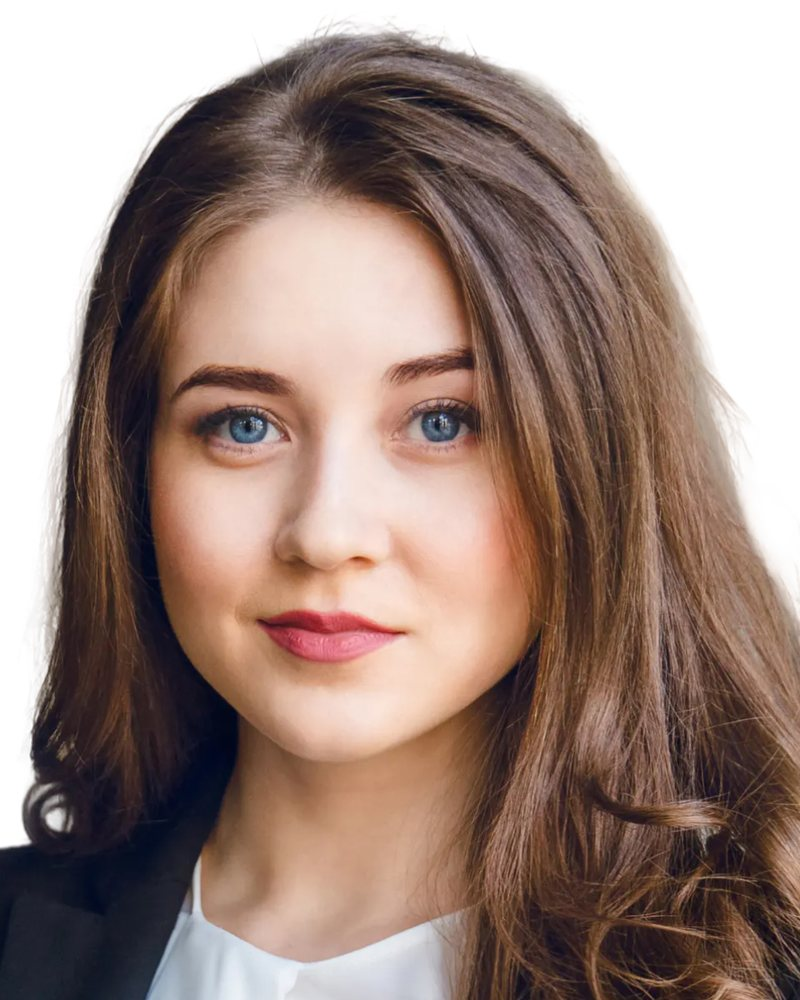
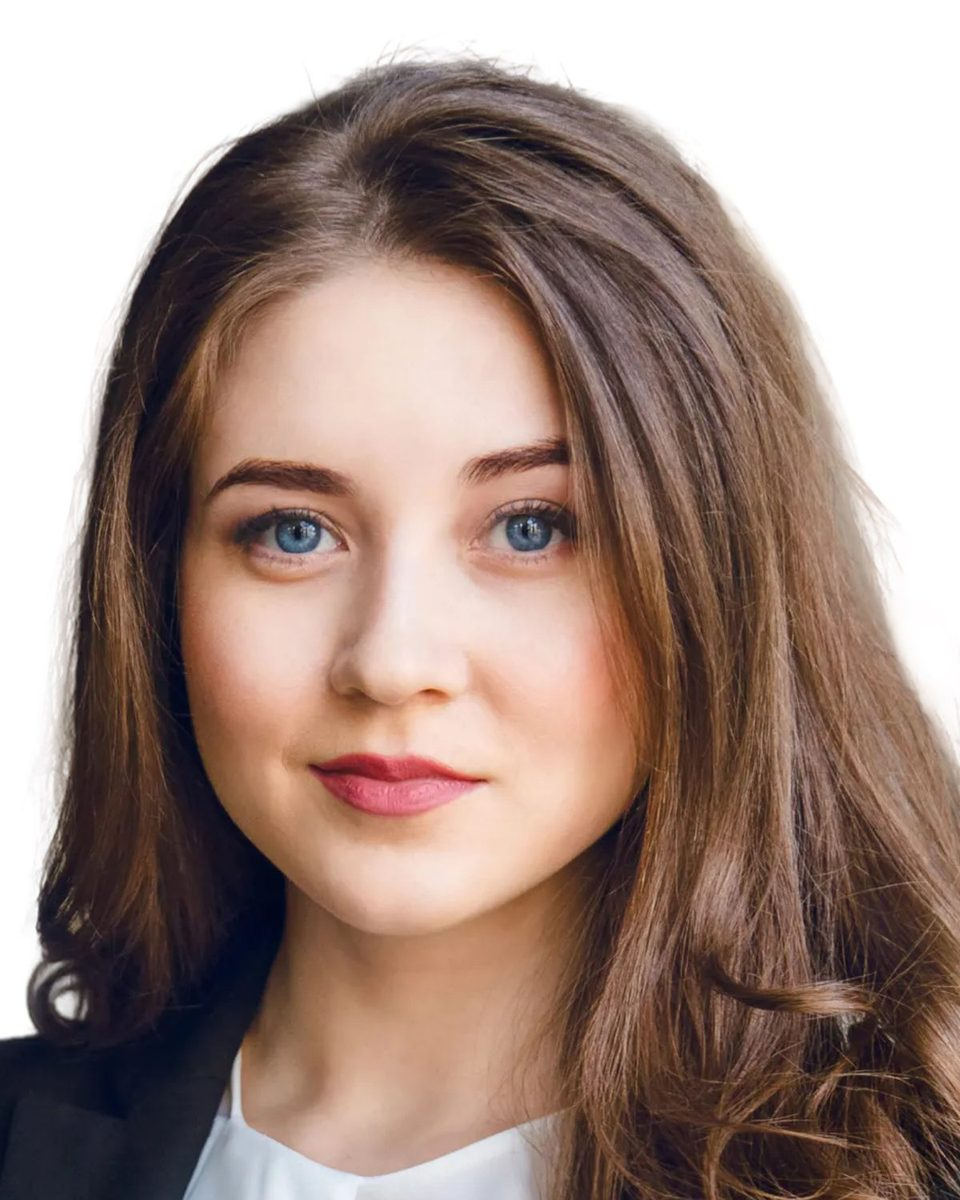
v3.11 — правки 26.11: hero UA как EN, процесс, цены, футер, скрины кейсов, фото команды
Claude-Session: https://claude.ai/code/session_01DrEDLHrs4JieHHSdT3fkNY

diff --git a/index.html b/index.html
@@ -30,7 +30,7 @@
   <div class="mv-wrap mv-hero-in">
     <div class="mv-hero-top">
       <div>
-        <p class="mv-kicker a-blur" style="--d:.45s"><b>Сайти, що приводять клієнтів</b> і працюють замість вас</p>
+        <p class="mv-kicker a-blur" style="--d:.45s">Сайти, що працюють <b>замість вас</b></p>
         <h1 style="margin:0">
           <span class="a-mask"><span class="mv-more"><span class="mv-bars" aria-hidden="true"><i></i><i></i><i></i></span><span class="mv-more-w">НОВІ КЛІЄНТИ</span></span></span>
           <span class="a-mask"><span class="mv-clients" style="--d:.15s">стабільно</span></span>
@@ -87,7 +87,7 @@
   <div class="v-case-row"><span class="v-case-l"><span class="v-num">04</span><h3 class="v-case-name">The Nook</h3></span><span class="v-case-kind">Готель на 12 номерів біля моря</span>
     <button type="button" class="mv-tog" aria-expanded="false" aria-controls="case-4" aria-label="The Nook, кейс"><svg width="18" height="18" viewBox="0 0 18 18" fill="none" stroke="currentColor" stroke-width="1.6" aria-hidden="true"><path d="M9 2v14M2 9h14"/></svg></button></div>
   <div class="mv-acc" id="case-4"><div><div class="v-case-body">
-    <div class="v-case-shot"><img class="" src="assets/img/case-the-nook.jpg" alt="The Nook website" loading="lazy" decoding="async"></div>
+    <div class="v-case-shot"><img class="is-wide" src="assets/img/case-the-nook.jpg" alt="The Nook website" loading="lazy" decoding="async"></div>
     <div class="v-case-txt"><dl><div><dt>Було</dt><dd>Гості бачили ще один пляжний готель, а <b>поза сезоном</b> номери пустували.</dd></div><div><dt>Що зробили</dt><dd>Нове позиціонування для віддаленої роботи: «Працюй біля моря. Відпочивай зі змістом». Тихі робочі місця, відкрито <b>цілий рік</b>, пакети для тривалого проживання.</dd></div><div class="res"><dt>Стало</dt><dd>У міжсезоння з’явилися свої гості: люди на віддаленій роботі, які приїжджають на <b>тижні, а не дні</b>.</dd></div></dl><p class="v-actions v-case-act"><a class="mv-btn mv-btn--amber" href="https://the-nook----premium-coastal-coliving-we.webflow.io/" target="_blank" rel="noopener">Відкрити сайт <span class="ar" aria-hidden="true">→</span></a><span class="v-host">the-nook.webflow.io</span></p></div>
   </div></div></div>
 </article><article class="v-case">
@@ -113,7 +113,7 @@
 </div></section>
 <section id="pricing" class="v-sec v-bg-base" data-reveal=""><div class="v-wrap"><div class="v-head "><p class="v-idx"><span>Ціни</span></p><div><h2 class="v-h2">Ціни без дзвінків і форм</h2><p class="v-lead">Оберіть мету — й одразу побачите суму. Ціну фіксуємо до старту.</p></div></div>
   <div class="v-pay" role="group" aria-label="Одним платежем / Трьома частинами"><button type="button" aria-pressed="true" data-pay="1">Одним платежем</button><button type="button" aria-pressed="false" data-pay="3">Трьома частинами</button></div>
-  <div class="v-3 v-plans"><div class="v-card v-plan" data-spot-card=""><div class="v-plan-top"><span class="v-plan-kind">Лендинг</span></div><h3 class="v-h3">Сайт, який приносить заявки</h3><p>Одна сторінка, що пояснює вашу пропозицію й перетворює відвідувачів на заявки.</p><p class="v-price"><span>від</span><b data-p1="₴16 800 <small>(≈ $400)</small>" data-p3="3 × ₴5 600">₴16 800 <small>(≈ $400)</small></b></p><ul><li>Односторінковий сайт</li><li>Тексти під ваших клієнтів</li><li>Форма зі сповіщеннями</li><li>Місяць підтримки після запуску</li></ul><a class="mv-btn" href="#contact" data-goal="clients">Обговорити проєкт <span class="ar" aria-hidden="true">→</span></a></div><div class="v-card v-plan is-rec" data-spot-card=""><div class="v-plan-top"><span class="v-plan-kind">Лендинг + автоматизація</span><span class="v-badge">Популярний</span></div><h3 class="v-h3">Сайт, який записує клієнтів сам</h3><p>Клієнт сам обирає час, а заявка одразу надходить вашій команді.</p><p class="v-price"><span>від</span><b data-p1="₴29 100 <small>(≈ $700)</small>" data-p3="3 × ₴9 700">₴29 100 <small>(≈ $700)</small></b></p><ul><li>Усе з пакета «Лендинг»</li><li>Онлайн-запис і календар</li><li>Заявки в Telegram або CRM</li><li>Місяць підтримки після запуску</li></ul><a class="mv-btn" href="#contact" data-goal="service">Обговорити проєкт <span class="ar" aria-hidden="true">→</span></a></div><div class="v-card v-plan" data-spot-card=""><div class="v-plan-top"><span class="v-plan-kind">Багатосторінковий сайт</span></div><h3 class="v-h3">Сайт для бізнесу, що росте</h3><p>Окрема сторінка для кожної послуги, а запис і обробка заявок уже всередині.</p><p class="v-price"><span>від</span><b data-p1="₴49 800 <small>(≈ $1 200)</small>" data-p3="3 × ₴16 600">₴49 800 <small>(≈ $1 200)</small></b></p><ul><li>До 5 сторінок</li><li>Запис і обробка заявок</li><li>Аналітика й відстеження заявок</li><li>Місяць пріоритетної підтримки</li></ul><a class="mv-btn" href="#contact" data-goal="redesign">Обговорити проєкт <span class="ar" aria-hidden="true">→</span></a></div></div><p class="v-note">Потрібен Telegram-бот, CRM чи інша функція? Додамо до будь-якого пакета. Ціни в доларах, у гривнях — за курсом НБУ на день оплати.</p>
+  <div class="v-3 v-plans"><div class="v-card v-plan" data-spot-card=""><div class="v-plan-top"><span class="v-plan-kind">Лендинг</span></div><h3 class="v-h3">Сайт, який приносить заявки</h3><p>Одна сторінка, що пояснює вашу пропозицію й перетворює відвідувачів на заявки.</p><p class="v-price"><span>від</span><b data-p1="₴16 800" data-p3="3 × ₴5 600">₴16 800</b><span class="v-price-sub" data-p1="≈ $400" data-p3="≈ $133 за платіж">≈ $400</span></p><ul><li>Односторінковий сайт</li><li>Тексти під ваших клієнтів</li><li>Форма зі сповіщеннями</li><li>Місяць підтримки після запуску</li></ul><a class="mv-btn" href="#contact" data-goal="clients">Обговорити проєкт <span class="ar" aria-hidden="true">→</span></a></div><div class="v-card v-plan is-rec" data-spot-card=""><div class="v-plan-top"><span class="v-plan-kind">Лендинг + автоматизація</span><span class="v-badge">Популярний</span></div><h3 class="v-h3">Сайт, який записує клієнтів сам</h3><p>Клієнт сам обирає час, а заявка одразу надходить вашій команді.</p><p class="v-price"><span>від</span><b data-p1="₴29 100" data-p3="3 × ₴9 700">₴29 100</b><span class="v-price-sub" data-p1="≈ $700" data-p3="≈ $233 за платіж">≈ $700</span></p><ul><li>Усе з пакета «Лендинг»</li><li>Онлайн-запис і календар</li><li>Заявки в Telegram або CRM</li><li>Місяць підтримки після запуску</li></ul><a class="mv-btn" href="#contact" data-goal="service">Обговорити проєкт <span class="ar" aria-hidden="true">→</span></a></div><div class="v-card v-plan" data-spot-card=""><div class="v-plan-top"><span class="v-plan-kind">Багатосторінковий сайт</span></div><h3 class="v-h3">Сайт для бізнесу, що росте</h3><p>Окрема сторінка для кожної послуги, а запис і обробка заявок уже всередині.</p><p class="v-price"><span>від</span><b data-p1="₴49 800" data-p3="3 × ₴16 600">₴49 800</b><span class="v-price-sub" data-p1="≈ $1 200" data-p3="≈ $400 за платіж">≈ $1 200</span></p><ul><li>До 5 сторінок</li><li>Запис і обробка заявок</li><li>Аналітика й відстеження заявок</li><li>Місяць пріоритетної підтримки</li></ul><a class="mv-btn" href="#contact" data-goal="redesign">Обговорити проєкт <span class="ar" aria-hidden="true">→</span></a></div></div><p class="v-note">Потрібен Telegram-бот, CRM чи інша функція? Додамо до будь-якого пакета. Ціни в доларах, у гривнях — за курсом НБУ на день оплати.</p>
 </div></section>
 <section id="contact" class="v-sec v-bg-warm" data-reveal=""><div class="v-wrap"><div class="v-head "><p class="v-idx"><span>Контакти</span></p><div><h2 class="v-h2">Безкоштовний <br>15‑хвилинний розбір</h2><p class="v-lead">Разом подивимося на ваш сайт або ідею й підкажемо, що приведе більше заявок. Це ні до чого не зобов’язує.</p></div></div>
   <div class="v-contact v-contact--2">
@@ -124,7 +124,7 @@
       <div class="v-fields">
         <label class="v-field"><span>Ім’я</span><input class="v-in" name="name" placeholder="Як до вас звертатися?" autocomplete="name" required="required"></label>
         <label class="v-field"><span>Email</span><input class="v-in" type="email" name="email" placeholder="you@company.com" autocomplete="email" required="required"></label>
-        <label class="v-field v-field--full"><span>Телефон</span><input class="v-in" type="tel" name="phone" placeholder="+380 __ ___ __ __" autocomplete="tel" required="required"></label>
+        <label class="v-field v-field--full"><span>Телефон</span><input class="v-in" type="tel" name="phone" placeholder="" autocomplete="tel" required="required"></label>
       </div>
       <p class="mv-err" data-form-error="" hidden="hidden" role="alert"></p>
       <div class="v-submit"><button class="mv-btn" type="submit">Записатися на розбір <span class="ar" aria-hidden="true">→</span></button><span class="v-host">Відповімо протягом доби · без спаму</span></div>
@@ -139,7 +139,7 @@
     <div><p class="v-foot-h">Контакти</p><a class="v-foot-ic" href="mailto:mavpy.studio@gmail.com"><svg class="ico" aria-hidden="true" stroke-width="3.75" stroke-linecap="round" stroke-linejoin="round" viewBox="0 0 60 60" fill="none"><path d="M7.5 13.125H52.5V45C52.5 45.4973 52.3025 45.9742 51.9508 46.3258C51.5992 46.6775 51.1223 46.875 50.625 46.875H9.375C8.87772 46.875 8.40081 46.6775 8.04918 46.3258C7.69754 45.9742 7.5 45.4973 7.5 45V13.125Z" stroke="currentColor"/><path d="M52.5 13.125L30 33.75L7.5 13.125" stroke="currentColor"/></svg><span>mavpy.studio@gmail.com</span></a><a class="v-foot-ic" href="tel:+380992208343"><svg class="ico" aria-hidden="true" stroke-width="3.75" stroke-linecap="round" stroke-linejoin="round" viewBox="0 0 60 60" fill="none"><path d="M38.5289 34.0641C38.7886 33.8913 39.0872 33.786 39.3979 33.7578C39.7085 33.7295 40.0212 33.7792 40.3078 33.9023L51.3609 38.8547C51.7334 39.0139 52.0444 39.2895 52.2472 39.6401C52.45 39.9908 52.5337 40.3977 52.4859 40.8C52.1218 43.5212 50.7818 46.0176 48.715 47.8248C46.6482 49.632 43.9955 50.6271 41.25 50.625C32.7962 50.625 24.6887 47.2668 18.711 41.289C12.7333 35.3113 9.375 27.2038 9.375 18.75C9.3729 16.0045 10.368 13.3518 12.1752 11.285C13.9825 9.21825 16.4788 7.8782 19.2 7.51407C19.6023 7.46628 20.0092 7.55006 20.3599 7.75286C20.7105 7.95566 20.9861 8.26658 21.1453 8.63907L26.0977 19.7016C26.2193 19.9857 26.2689 20.2955 26.2419 20.6034C26.2149 20.9113 26.1122 21.2078 25.943 21.4664L20.9344 27.4219C20.7567 27.69 20.6517 27.9996 20.6295 28.3204C20.6073 28.6413 20.6687 28.9624 20.8078 29.2524C22.7461 33.2203 26.8477 37.2727 30.8273 39.1922C31.1189 39.3307 31.4414 39.3907 31.7633 39.3665C32.0851 39.3422 32.395 39.2345 32.6625 39.0539L38.5289 34.0641Z" stroke="currentColor"/></svg><span>+380 99 220 83 43</span></a><a class="v-foot-ic" href="https://instagram.com/mavpy_agency" target="_blank" rel="noopener"><svg class="ico" aria-hidden="true" stroke-width="3.75" stroke-linecap="round" stroke-linejoin="round" viewBox="0 0 60 60" fill="none"><path d="M39.375 30C39.375 35.1777 35.1777 39.375 30 39.375C24.8223 39.375 20.625 35.1777 20.625 30C20.625 24.8223 24.8223 20.625 30 20.625C35.1777 20.625 39.375 24.8223 39.375 30Z" stroke="currentColor"/><path d="M18.75 7.5H41.25C47.4632 7.5 52.5 12.5368 52.5 18.75V41.25C52.5 47.4632 47.4632 52.5 41.25 52.5H18.75C12.5368 52.5 7.5 47.4632 7.5 41.25V18.75C7.5 12.5368 12.5368 7.5 18.75 7.5Z" stroke="currentColor"/><path d="M42.1875 20.625C43.7408 20.625 45 19.3658 45 17.8125C45 16.2592 43.7408 15 42.1875 15C40.6342 15 39.375 16.2592 39.375 17.8125C39.375 19.3658 40.6342 20.625 42.1875 20.625Z" fill="currentColor"/></svg><span>@mavpy_agency</span></a><a class="v-foot-ic" href="https://t.me/mavpy_agency" target="_blank" rel="noopener"><svg class="ico" aria-hidden="true" stroke-width="3.75" stroke-linecap="round" stroke-linejoin="round" viewBox="0 0 60 60" fill="none"><path d="M18.7501 31.6103L39.9048 50.1564C40.1485 50.3714 40.4439 50.5194 40.762 50.5858C41.0801 50.6522 41.41 50.6349 41.7193 50.5354C42.0287 50.4359 42.3069 50.2577 42.5266 50.0183C42.7464 49.7789 42.9001 49.4864 42.9728 49.1697L52.5001 7.78612C52.5094 7.74462 52.5072 7.70137 52.4938 7.66101C52.4805 7.62066 52.4563 7.5847 52.4241 7.55701C52.3918 7.52931 52.3526 7.51092 52.3107 7.5038C52.2687 7.49668 52.2257 7.5011 52.1861 7.51659L4.68762 26.1049C4.39275 26.2184 4.14265 26.4244 3.97486 26.6921C3.80708 26.9599 3.73065 27.2748 3.75707 27.5896C3.78348 27.9045 3.9113 28.2023 4.12135 28.4383C4.3314 28.6743 4.61234 28.8358 4.92199 28.8986L18.7501 31.6103Z" stroke="currentColor"/><path d="M18.7495 31.6101L52.3612 7.521" stroke="currentColor"/><path d="M29.1487 40.7299L21.9745 48.1736C21.7153 48.4426 21.3816 48.628 21.0163 48.706C20.651 48.7841 20.2707 48.7513 19.9242 48.6118C19.5777 48.4722 19.2808 48.2324 19.0715 47.923C18.8622 47.6136 18.7501 47.2487 18.7495 46.8752V31.6104" stroke="currentColor"/></svg><span>@mavpy_agency</span></a></div>
     <div><p class="v-foot-h">Студія</p><span>Дизайн і розробка</span><span>З 2022 року</span><span>UA / EN</span></div></div>
   <div class="v-ticks v-ticks--line" aria-hidden="true"></div>
-  <p class="v-foot-word v-foot-word--img"><img src="assets/img/footer-wordmark.png" alt="MAVPY" width="1271" height="212" loading="lazy"></p>
+  <p class="v-foot-word v-foot-word--txt" data-fit=""><span>MAVPY</span></p>
   <div class="v-foot-bot"><span>© 2022–2026 MAVPY Design & Dev</span><a href="#top">Нагору ↑</a></div>
 </div></footer>
 </div>

diff --git a/en/index.html b/en/index.html
@@ -87,7 +87,7 @@
   <div class="v-case-row"><span class="v-case-l"><span class="v-num">04</span><h3 class="v-case-name">The Nook</h3></span><span class="v-case-kind">12-room hotel by the sea</span>
     <button type="button" class="mv-tog" aria-expanded="false" aria-controls="case-4" aria-label="The Nook, case"><svg width="18" height="18" viewBox="0 0 18 18" fill="none" stroke="currentColor" stroke-width="1.6" aria-hidden="true"><path d="M9 2v14M2 9h14"/></svg></button></div>
   <div class="mv-acc" id="case-4"><div><div class="v-case-body">
-    <div class="v-case-shot"><img class="" src="../assets/img/case-the-nook.jpg" alt="The Nook website" loading="lazy" decoding="async"></div>
+    <div class="v-case-shot"><img class="is-wide" src="../assets/img/case-the-nook.jpg" alt="The Nook website" loading="lazy" decoding="async"></div>
     <div class="v-case-txt"><dl><div><dt>Before</dt><dd>Guests saw just another beach hotel, and rooms stood empty <b>off-season</b>.</dd></div><div><dt>What we did</dt><dd>New positioning for remote workers: “Work by the sea. Rest with purpose.” Quiet workspace, open <b>all year</b>, long-stay packages.</dd></div><div class="res"><dt>After</dt><dd>The off-season has its own guests: remote workers who stay for <b>weeks, not days</b>.</dd></div></dl><p class="v-actions v-case-act"><a class="mv-btn mv-btn--amber" href="https://the-nook----premium-coastal-coliving-we.webflow.io/" target="_blank" rel="noopener">Open live site <span class="ar" aria-hidden="true">→</span></a><span class="v-host">the-nook.webflow.io</span></p></div>
   </div></div></div>
 </article><article class="v-case">
@@ -124,7 +124,7 @@
       <div class="v-fields">
         <label class="v-field"><span>Name</span><input class="v-in" name="name" placeholder="How should we address you?" autocomplete="name" required="required"></label>
         <label class="v-field"><span>Email</span><input class="v-in" type="email" name="email" placeholder="you@company.com" autocomplete="email" required="required"></label>
-        <label class="v-field v-field--full"><span>Phone</span><input class="v-in" type="tel" name="phone" placeholder="+1 555 000 0000" autocomplete="tel" required="required"></label>
+        <label class="v-field v-field--full"><span>Phone</span><input class="v-in" type="tel" name="phone" placeholder="" autocomplete="tel" required="required"></label>
       </div>
       <p class="mv-err" data-form-error="" hidden="hidden" role="alert"></p>
       <div class="v-submit"><button class="mv-btn" type="submit">Book a free review <span class="ar" aria-hidden="true">→</span></button><span class="v-host">We reply within 24 hours · no spam</span></div>
@@ -139,7 +139,7 @@
     <div><p class="v-foot-h">Contact</p><a class="v-foot-ic" href="mailto:mavpy.studio@gmail.com"><svg class="ico" aria-hidden="true" stroke-width="3.75" stroke-linecap="round" stroke-linejoin="round" viewBox="0 0 60 60" fill="none"><path d="M7.5 13.125H52.5V45C52.5 45.4973 52.3025 45.9742 51.9508 46.3258C51.5992 46.6775 51.1223 46.875 50.625 46.875H9.375C8.87772 46.875 8.40081 46.6775 8.04918 46.3258C7.69754 45.9742 7.5 45.4973 7.5 45V13.125Z" stroke="currentColor"/><path d="M52.5 13.125L30 33.75L7.5 13.125" stroke="currentColor"/></svg><span>mavpy.studio@gmail.com</span></a><a class="v-foot-ic" href="tel:+380992208343"><svg class="ico" aria-hidden="true" stroke-width="3.75" stroke-linecap="round" stroke-linejoin="round" viewBox="0 0 60 60" fill="none"><path d="M38.5289 34.0641C38.7886 33.8913 39.0872 33.786 39.3979 33.7578C39.7085 33.7295 40.0212 33.7792 40.3078 33.9023L51.3609 38.8547C51.7334 39.0139 52.0444 39.2895 52.2472 39.6401C52.45 39.9908 52.5337 40.3977 52.4859 40.8C52.1218 43.5212 50.7818 46.0176 48.715 47.8248C46.6482 49.632 43.9955 50.6271 41.25 50.625C32.7962 50.625 24.6887 47.2668 18.711 41.289C12.7333 35.3113 9.375 27.2038 9.375 18.75C9.3729 16.0045 10.368 13.3518 12.1752 11.285C13.9825 9.21825 16.4788 7.8782 19.2 7.51407C19.6023 7.46628 20.0092 7.55006 20.3599 7.75286C20.7105 7.95566 20.9861 8.26658 21.1453 8.63907L26.0977 19.7016C26.2193 19.9857 26.2689 20.2955 26.2419 20.6034C26.2149 20.9113 26.1122 21.2078 25.943 21.4664L20.9344 27.4219C20.7567 27.69 20.6517 27.9996 20.6295 28.3204C20.6073 28.6413 20.6687 28.9624 20.8078 29.2524C22.7461 33.2203 26.8477 37.2727 30.8273 39.1922C31.1189 39.3307 31.4414 39.3907 31.7633 39.3665C32.0851 39.3422 32.395 39.2345 32.6625 39.0539L38.5289 34.0641Z" stroke="currentColor"/></svg><span>+380 99 220 83 43</span></a><a class="v-foot-ic" href="https://instagram.com/mavpy_agency" target="_blank" rel="noopener"><svg class="ico" aria-hidden="true" stroke-width="3.75" stroke-linecap="round" stroke-linejoin="round" viewBox="0 0 60 60" fill="none"><path d="M39.375 30C39.375 35.1777 35.1777 39.375 30 39.375C24.8223 39.375 20.625 35.1777 20.625 30C20.625 24.8223 24.8223 20.625 30 20.625C35.1777 20.625 39.375 24.8223 39.375 30Z" stroke="currentColor"/><path d="M18.75 7.5H41.25C47.4632 7.5 52.5 12.5368 52.5 18.75V41.25C52.5 47.4632 47.4632 52.5 41.25 52.5H18.75C12.5368 52.5 7.5 47.4632 7.5 41.25V18.75C7.5 12.5368 12.5368 7.5 18.75 7.5Z" stroke="currentColor"/><path d="M42.1875 20.625C43.7408 20.625 45 19.3658 45 17.8125C45 16.2592 43.7408 15 42.1875 15C40.6342 15 39.375 16.2592 39.375 17.8125C39.375 19.3658 40.6342 20.625 42.1875 20.625Z" fill="currentColor"/></svg><span>@mavpy_agency</span></a><a class="v-foot-ic" href="https://t.me/mavpy_agency" target="_blank" rel="noopener"><svg class="ico" aria-hidden="true" stroke-width="3.75" stroke-linecap="round" stroke-linejoin="round" viewBox="0 0 60 60" fill="none"><path d="M18.7501 31.6103L39.9048 50.1564C40.1485 50.3714 40.4439 50.5194 40.762 50.5858C41.0801 50.6522 41.41 50.6349 41.7193 50.5354C42.0287 50.4359 42.3069 50.2577 42.5266 50.0183C42.7464 49.7789 42.9001 49.4864 42.9728 49.1697L52.5001 7.78612C52.5094 7.74462 52.5072 7.70137 52.4938 7.66101C52.4805 7.62066 52.4563 7.5847 52.4241 7.55701C52.3918 7.52931 52.3526 7.51092 52.3107 7.5038C52.2687 7.49668 52.2257 7.5011 52.1861 7.51659L4.68762 26.1049C4.39275 26.2184 4.14265 26.4244 3.97486 26.6921C3.80708 26.9599 3.73065 27.2748 3.75707 27.5896C3.78348 27.9045 3.9113 28.2023 4.12135 28.4383C4.3314 28.6743 4.61234 28.8358 4.92199 28.8986L18.7501 31.6103Z" stroke="currentColor"/><path d="M18.7495 31.6101L52.3612 7.521" stroke="currentColor"/><path d="M29.1487 40.7299L21.9745 48.1736C21.7153 48.4426 21.3816 48.628 21.0163 48.706C20.651 48.7841 20.2707 48.7513 19.9242 48.6118C19.5777 48.4722 19.2808 48.2324 19.0715 47.923C18.8622 47.6136 18.7501 47.2487 18.7495 46.8752V31.6104" stroke="currentColor"/></svg><span>@mavpy_agency</span></a></div>
     <div><p class="v-foot-h">Studio</p><span>Design & development</span><span>Since 2022</span><span>UA / EN</span></div></div>
   <div class="v-ticks v-ticks--line" aria-hidden="true"></div>
-  <p class="v-foot-word v-foot-word--img"><img src="../assets/img/footer-wordmark.png" alt="MAVPY" width="1271" height="212" loading="lazy"></p>
+  <p class="v-foot-word v-foot-word--txt" data-fit=""><span>MAVPY</span></p>
   <div class="v-foot-bot"><span>© 2022–2026 MAVPY Design & Dev</span><a href="#top">Back to top ↑</a></div>
 </div></footer>
 </div>

diff --git a/main.js b/main.js
@@ -153,7 +153,8 @@ function initMavpy(root) {
     btn.addEventListener('click', function () {
       payBtns.forEach(function (b) { b.setAttribute('aria-pressed', b === btn ? 'true' : 'false'); });
       var key = btn.dataset.pay === '3' ? 'p3' : 'p1';
-      $$('.v-price b').forEach(function (b) { b.style.opacity = '0'; setTimeout(function () { b.innerHTML = b.dataset[key]; b.style.opacity = '1'; }, 160); });
+      $$('.v-price').forEach(function (pr) { pr.classList.toggle('is-3', key === 'p3'); });
+      $$('.v-price [data-p1]').forEach(function (b) { b.style.opacity = '0'; setTimeout(function () { b.innerHTML = b.dataset[key]; b.style.opacity = '1'; }, 160); });
     });
   });
 
@@ -177,6 +178,12 @@ function initMavpy(root) {
   }
 
   if ('scrollRestoration' in win.history && !win.location.hash) { win.history.scrollRestoration = 'manual'; win.scrollTo(0, 0); }
+  /* v3.11: the page always opens at the very top (no anchor) — also after fonts/images settle and on back-forward */
+  if (!win.location.hash) {
+    var toTop = function () { if (win.scrollY < 400) win.scrollTo(0, 0); };
+    win.addEventListener('load', toTop);
+    win.addEventListener('pageshow', function (e) { if (e.persisted) win.scrollTo(0, 0); });
+  }
 
   /* ---------- v3.7: sticky header gets a background once the page scrolls ---------- */
   var headEl = $('.mv-head');
@@ -212,7 +219,8 @@ function initMavpy(root) {
   }
 
   /* ---------- v3.8: typed text (hero right block on load, process details on scroll), no caret ---------- */
-  var typeIt = function (el, startDelay, done) {
+  var typeIt = function (el, startDelay, done, speed) {
+    speed = speed || 28;
     var parts = el.innerHTML.split(/<br\s*\/?>/i);
     if (reduce) { if (done) done(); return; }
     el.style.minHeight = el.offsetHeight + 'px';
@@ -224,12 +232,13 @@ function initMavpy(root) {
       var tmp = document.createElement('span'); tmp.innerHTML = parts[li];
       var txt = tmp.textContent;
       lines[li].textContent = txt.slice(0, ++ci);
-      if (ci >= txt.length) { li++; ci = 0; setTimeout(tick, 140); } else { setTimeout(tick, 28); }
+      if (ci >= txt.length) { li++; ci = 0; setTimeout(tick, speed * 5); } else { setTimeout(tick, speed); }
     };
     setTimeout(tick, startDelay);
   };
   $$('[data-type]:not([data-type="scroll"])').forEach(function (el) { typeIt(el, 1100); });
-  /* process: card 1 slides in → amber line draws down while its text types → then card 2 → then card 3 */
+  /* process (v3.11): each card slides in; the moment it lands the amber line draws and its text types fast;
+     the next card starts when the previous one is ~2/3 in — one smooth chain 1 → 2 → 3 */
   var steps = $$('#how .v-flow-step');
   if (steps.length && 'IntersectionObserver' in win && !reduce) {
     steps.forEach(function (st) { st.classList.add('pseq'); var m = st.querySelector('[data-type="scroll"]'); if (m) m.classList.add('tw-wait'); });
@@ -239,9 +248,9 @@ function initMavpy(root) {
       st.classList.add('pseq-in');
       setTimeout(function () {
         st.classList.add('pseq-line');
-        if (txt) typeIt(txt, 0, function () { setTimeout(function () { runStep(k + 1); }, 150); });
-        else setTimeout(function () { runStep(k + 1); }, 900);
-      }, 650);
+        if (txt) typeIt(txt, 0, null, 11);
+      }, 180);
+      setTimeout(function () { runStep(k + 1); }, 470);
     };
     var sio = new win.IntersectionObserver(function (entries) {
       if (entries[0].isIntersecting) { sio.disconnect(); runStep(0); }
@@ -250,6 +259,38 @@ function initMavpy(root) {
   }
 
 
+  /* ---------- v3.11: hero — the big word fills the container exactly (UA and EN, every width);
+     on tablet/mobile «НОВІ КЛІЄНТИ» stays on one line and fills the width like «MORE» ---------- */
+  var heroIn = $('.mv-hero-in'), heroBig = $('.mv-hero .mv-clients'), heroTop = $('.mv-hero .mv-more');
+  if (heroIn && heroBig) {
+    var isUa = (doc.documentElement.lang || '').indexOf('uk') === 0;
+    var natural = function (el, disp) {
+      var od = el.style.display, ow = el.style.width; el.style.display = disp; el.style.width = 'max-content';
+      var w = el.getBoundingClientRect().width; el.style.display = od; el.style.width = ow; return w;
+    };
+    var fitHero = function () {
+      var cs = win.getComputedStyle(heroIn);
+      var W = heroIn.clientWidth - parseFloat(cs.paddingLeft) - parseFloat(cs.paddingRight);
+      heroBig.style.fontSize = '100px';
+      var w = natural(heroBig, 'inline-block');
+      if (w) heroBig.style.fontSize = (100 * W / w).toFixed(2) + 'px';
+      if (isUa && heroTop) {
+        heroTop.style.fontSize = '';
+        if (win.innerWidth < 1200) {
+          var word = heroTop.querySelector('.mv-more-w'), bars = heroTop.querySelector('.mv-bars');
+          heroTop.style.fontSize = '100px';
+          var tw = word ? natural(word, 'inline-block') : 0;
+          var gap = parseFloat(win.getComputedStyle(heroTop).columnGap) || 0;
+          var room = W - (bars ? bars.getBoundingClientRect().width + gap : 0) - 2;
+          if (tw) heroTop.style.fontSize = (100 * room / tw).toFixed(2) + 'px';
+        }
+      }
+    };
+    fitHero();
+    if (doc.fonts && doc.fonts.ready) doc.fonts.ready.then(fitHero);
+    win.addEventListener('resize', fitHero);
+  }
+
   /* ---------- v3.3: footer wordmark stretches to the full content width ---------- */
   var fit = $('[data-fit]');
   if (fit) {
@@ -257,7 +298,7 @@ function initMavpy(root) {
     var fitWord = function () {
       fit.style.fontSize = '100px';
       var w = word.getBoundingClientRect().width;
-      if (w) fit.style.fontSize = (100 * fit.clientWidth / w).toFixed(2) + 'px';
+      if (w) fit.style.fontSize = (99 * fit.clientWidth / w).toFixed(2) + 'px';
     };
     fitWord();
     if (doc.fonts && doc.fonts.ready) doc.fonts.ready.then(fitWord);

diff --git a/styles.css b/styles.css
@@ -1084,3 +1084,32 @@
   .pseq .v-flow-side::before{transform:scaleX(0)}
   .pseq.pseq-line .v-flow-side::before{transform:scaleX(1)}
 }
+
+/* v3.11: very wide screenshot (The Nook) fills the case frame on desktop, cropped from the right so the headline stays; full image on tablet/mobile */
+.v-case-shot img.is-wide{height:100%;object-fit:cover;object-position:0 50%}
+@media (max-width:1199px){.v-case-shot img.is-wide{height:auto;object-fit:initial}}
+
+/* =========================================================
+   v3.11 — Serhii's notes in Figma 26.11 (notes/2026-11-26-v3.11-edits.md)
+   ========================================================= */
+/* hero: UA built exactly like EN — the big word is fitted to the container by JS, same spacing;
+   one-line «НОВІ КЛІЄНТИ» on tablet/mobile (fitted like «MORE») */
+.mv-hero .mv-clients{white-space:nowrap}
+:lang(uk) .mv-hero .mv-more{flex-wrap:nowrap;white-space:nowrap}
+:lang(uk) .mv-hero .mv-more-w{max-width:none;width:auto;white-space:nowrap}
+:lang(uk) .mv-hero .mv-more .mv-bars{align-self:flex-end;height:.72em;margin-top:0}
+/* hero button: never stretched across the screen */
+@media (max-width:1199px){
+  .mv-hero-bottom{flex-direction:column;align-items:flex-start;gap:16px}
+  .mv-hero-bottom .mv-btn{width:auto;align-self:flex-start}
+}
+/* process: the amber line keeps pace with the fast typing */
+.pseq .v-flow-side::before{transition-duration:1.1s}
+/* pricing: the sum never breaks; 3 parts a bit smaller; the dollar line sits under it, flush left with the card text */
+.v-price{flex-wrap:wrap;row-gap:6px}
+.v-price b{white-space:nowrap}
+.v-price.is-3 b{font-size:max(30px,calc(42 * var(--u)))}
+.v-price-sub{flex-basis:100%;margin:0;font-family:var(--f-body);font-weight:500;font-size:var(--fs-small);line-height:1.3;color:var(--text-3);transition:opacity .2s var(--ease)}
+/* footer: plain MAVPY wordmark again (no mascot), stretched to the full width like the image was */
+.v-foot-word--txt{font-family:'Montserrat','Archivo','Arial Black',sans-serif;font-weight:900;letter-spacing:-.01em;line-height:.78;color:var(--white)}
+.v-foot-word--txt span{display:inline-block}

diff --git a/tools/build.py b/tools/build.py
@@ -1,5 +1,5 @@
 #!/usr/bin/env python3
-"""MAVPY site v3.10 ("Swiss workshop"). One template → UA (/, default) and EN (/en/).
+"""MAVPY site v3.11 ("Swiss workshop"). One template → UA (/, default) and EN (/en/).
 Usage: python3 tools/build.py .   (writes index.html and ua/index.html into the repo)"""
 import os, sys
 sys.path.insert(0, os.path.dirname(os.path.abspath(__file__)))
@@ -98,7 +98,7 @@ E = dict(
   side_h='Prefer to talk directly?', side=['Phone', 'Email', 'Instagram'], form_cta='Book a free review',
   next_steps=['We reply within 24 hours', 'A 15-minute call about your goal', 'Fixed price and timeline in writing'],
   need='What do you need?', goals=[('clients', 'New clients'), ('service', 'New service'), ('redesign', 'Redesign'), ('ads', 'Ads & analytics'), ('auto', 'Automation')],
-  f_name='Name', f_email='Email', f_phone='Phone', ph_name='How should we address you?', ph_email='you@company.com', ph_phone='+1 555 000 0000', err_phone='Add a phone number so we can call you back.', reply='We reply within 24 hours · no spam',
+  f_name='Name', f_email='Email', f_phone='Phone', ph_name='How should we address you?', ph_email='you@company.com', ph_phone='', err_phone='Add a phone number so we can call you back.', reply='We reply within 24 hours · no spam',
   done_h='Got it, thanks', done_p='We’ll get back within 24 hours to set a time for the call.',
   err_name='Add your name so we know who to reply to.', err_email='Check the email, it looks incomplete.',
   err_net='The request didn’t go through. Try again or write to mavpy.studio@gmail.com.',
@@ -109,7 +109,7 @@ U = dict(
   html_lang='uk', title='MAVPY — сайти, що приводять клієнтів і працюють замість вас',
   desc='Сайти з онлайн-записом і заявками в Telegram або CRM. Від стратегії до запуску й підтримки. Фіксована ціна від 16 800 грн.',
   nav=['Як ми працюємо', 'Кейси', 'Ціни', 'Контакти'], menu='Відкрити меню', lang_group='Мова', cta='Дізнатися вартість',
-  kicker='<b>Сайти, що приводять клієнтів</b> і працюють замість вас', more='НОВІ КЛІЄНТИ', clients='стабільно',
+  kicker='Сайти, що працюють <b>замість вас</b>', more='НОВІ КЛІЄНТИ', clients='стабільно',
   notjust='Ваш час — для бізнесу,<br>заявки збирає сайт', hero_note='Робимо все: від стратегії до запуску.<br>Ви погоджуєте лише ключове.',
   strip=['30+ проєктів з 2022 року', 'Фіксована ціна без сюрпризів', 'Працюєте безпосередньо із засновником', 'Відповідаємо протягом доби', 'Оплата трьома частинами', 'Запис, CRM і бот — під ключ', 'Сайт і код належать вам'],
   strip_label='Чому обирають нас',
@@ -161,13 +161,13 @@ U = dict(
   price_idx='Ціни', price_h='Ціни без дзвінків і форм', price_p='Оберіть мету — й одразу побачите суму. Ціну фіксуємо до старту.',
   pay=['Одним платежем', 'Трьома частинами'], badge='Популярний', plan_cta='Обговорити проєкт', from_='від',
   price_note='Потрібен Telegram-бот, CRM чи інша функція? Додамо до будь-якого пакета. Ціни в доларах, у гривнях — за курсом НБУ на день оплати.',
-  plans=[('Лендинг', 'Сайт, який приносить заявки', 'Одна сторінка, що пояснює вашу пропозицію й перетворює відвідувачів на заявки.', ['Односторінковий сайт', 'Тексти під ваших клієнтів', 'Форма зі сповіщеннями', 'Місяць підтримки після запуску'], '₴16 800 <small>(≈ $400)</small>', '3 × ₴5 600', 'clients'),
-         ('Лендинг + автоматизація', 'Сайт, який записує клієнтів сам', 'Клієнт сам обирає час, а заявка одразу надходить вашій команді.', ['Усе з пакета «Лендинг»', 'Онлайн-запис і календар', 'Заявки в Telegram або CRM', 'Місяць підтримки після запуску'], '₴29 100 <small>(≈ $700)</small>', '3 × ₴9 700', 'service'),
-         ('Багатосторінковий сайт', 'Сайт для бізнесу, що росте', 'Окрема сторінка для кожної послуги, а запис і обробка заявок уже всередині.', ['До 5 сторінок', 'Запис і обробка заявок', 'Аналітика й відстеження заявок', 'Місяць пріоритетної підтримки'], '₴49 800 <small>(≈ $1 200)</small>', '3 × ₴16 600', 'redesign')],
+  plans=[('Лендинг', 'Сайт, який приносить заявки', 'Одна сторінка, що пояснює вашу пропозицію й перетворює відвідувачів на заявки.', ['Односторінковий сайт', 'Тексти під ваших клієнтів', 'Форма зі сповіщеннями', 'Місяць підтримки після запуску'], '₴16 800|≈ $400', '3 × ₴5 600|≈ $133 за платіж', 'clients'),
+         ('Лендинг + автоматизація', 'Сайт, який записує клієнтів сам', 'Клієнт сам обирає час, а заявка одразу надходить вашій команді.', ['Усе з пакета «Лендинг»', 'Онлайн-запис і календар', 'Заявки в Telegram або CRM', 'Місяць підтримки після запуску'], '₴29 100|≈ $700', '3 × ₴9 700|≈ $233 за платіж', 'service'),
+         ('Багатосторінковий сайт', 'Сайт для бізнесу, що росте', 'Окрема сторінка для кожної послуги, а запис і обробка заявок уже всередині.', ['До 5 сторінок', 'Запис і обробка заявок', 'Аналітика й відстеження заявок', 'Місяць пріоритетної підтримки'], '₴49 800|≈ $1 200', '3 × ₴16 600|≈ $400 за платіж', 'redesign')],
   contact_idx='Контакти', contact_h='Безкоштовний<br>15‑хвилинний розбір', contact_p='Разом подивимося на ваш сайт або ідею й підкажемо, що приведе більше заявок. Це ні до чого не зобов’язує.',
   side_h='Зручніше без форми?', side=['Телефон', 'Email', 'Instagram'], form_cta='Записатися на розбір',
   next_steps=[], need='', goals=[('clients', '')],
-  f_name='Ім’я', f_email='Email', f_phone='Телефон', ph_name='Як до вас звертатися?', ph_email='you@company.com', ph_phone='+380 __ ___ __ __', err_phone='Вкажіть телефон, щоб ми могли зателефонувати.', reply='Відповімо протягом доби · без спаму',
+  f_name='Ім’я', f_email='Email', f_phone='Телефон', ph_name='Як до вас звертатися?', ph_email='you@company.com', ph_phone='', err_phone='Вкажіть телефон, щоб ми могли зателефонувати.', reply='Відповімо протягом доби · без спаму',
   done_h='Дякуємо, заявку отримали', done_p='Зв’яжемося протягом доби, щоб домовитися про час дзвінка.',
   err_name='Вкажіть ім’я, щоб ми знали, як до вас звертатися.', err_email='Перевірте email — схоже, адреса неповна.',
   err_net='Не вдалося надіслати заявку. Спробуйте ще раз або напишіть нам на mavpy.studio@gmail.com.',
@@ -183,6 +183,15 @@ def head(n, label, title, lead=None, cls=''):
     return (f'<div class="v-head {cls}"><p class="v-idx"><span>{label}</span></p>'
             f'<div><h2 class="v-h2">{title.replace("<br>", " <br>")}</h2>{ld}</div></div>')
 
+
+WIDE_SHOTS = {"case-the-nook"}  # v3.11: screenshots much wider than the case frame fill it on desktop, cropped from the right
+
+def price_block(frm, p1, p3):
+    """v3.11: main sum on one line (never breaks); optional small line under it, flush with the card text."""
+    m1, _, s1 = p1.partition('|'); m3, _, s3 = p3.partition('|')
+    q = lambda v: v.replace('"', '&quot;')
+    sub = f'<span class="v-price-sub" data-p1="{q(s1)}" data-p3="{q(s3)}">{s1}</span>' if (s1 or s3) else ''
+    return f'<p class="v-price"><span>{frm}</span><b data-p1="{q(m1)}" data-p3="{q(m3)}">{m1}</b>{sub}</p>'
 
 def img(name, alt, cls='', ext='jpg', lazy=True):
     return f'<img class="{cls}" src="{{P}}assets/img/{name}.{ext}" alt="{alt}"{" loading=\"lazy\"" if lazy else ""} decoding="async">'
@@ -274,7 +283,7 @@ def page(t, lang):
   <div class="v-case-row"><span class="v-case-l"><span class="v-num">0{i+1}</span><h3 class="v-case-name">{name}</h3></span><span class="v-case-kind">{kind}</span>
     <button type="button" class="mv-tog" aria-expanded="{str(op).lower()}" aria-controls="{cid}" aria-label="{name}, {t["case_word"]}">{PLUS}</button></div>
   <div class="mv-acc{" is-open is-in" if op else ""}" id="{cid}"><div><div class="v-case-body">
-    <div class="v-case-shot">{img(im, name + " website")}</div>
+    <div class="v-case-shot">{img(im, name + " website", "is-wide" if im in WIDE_SHOTS else "")}</div>
     <div class="v-case-txt"><dl>{dl}</dl><p class="v-actions v-case-act"><a class="mv-btn mv-btn--amber" href="{url}" target="_blank" rel="noopener">{t["live"]} {ARROW}</a><span class="v-host">{host}</span></p></div>
   </div></div></div>
 </article>'''
@@ -300,7 +309,7 @@ def page(t, lang):
         rec = i == 1
         lis = ''.join(f'<li>{x}</li>' for x in inc)
         plans += (f'<div class="v-card v-plan{" is-rec" if rec else ""}" data-spot-card=""><div class="v-plan-top"><span class="v-plan-kind">{kind}</span>{f"<span class=\"v-badge\">{t['badge']}</span>" if rec else ""}</div>'
-                  f'<h3 class="v-h3">{h}</h3><p>{d}</p><p class="v-price"><span>{t["from_"]}</span><b data-p1="{p1.replace(chr(34), "&quot;")}" data-p3="{p3.replace(chr(34), "&quot;")}">{p1}</b></p>'
+                  f'<h3 class="v-h3">{h}</h3><p>{d}</p>{price_block(t["from_"], p1, p3)}'
                   f'<ul>{lis}</ul><a class="mv-btn" href="#contact" data-goal="{goal}">{t["plan_cta"]} {ARROW}</a></div>')
     note = f'<p class="v-note">{t["price_note"]}</p>' if t['price_note'] else ''
     o.append(f'''<section id="pricing" class="v-sec v-bg-base" data-reveal=""><div class="v-wrap">{head(7, t["price_idx"], t["price_h"], t["price_p"])}
@@ -339,7 +348,7 @@ def page(t, lang):
     <div><p class="v-foot-h">{c[1]}</p>{fcon}</div>
     <div><p class="v-foot-h">{c[2]}</p>{''.join(f"<span>{s}</span>" for s in t["studio"])}</div></div>
   <div class="v-ticks v-ticks--line" aria-hidden="true"></div>
-  <p class="v-foot-word v-foot-word--img"><img src="{P}assets/img/footer-wordmark.png" alt="MAVPY" width="1271" height="212" loading="lazy"></p>
+  <p class="v-foot-word v-foot-word--txt" data-fit=""><span>MAVPY</span></p>
   <div class="v-foot-bot"><span>{t["copy"]}</span><a href="#top">{t["top"]}</a></div>
 </div></footer>
 </div>''')

diff --git a/CHANGELOG.md b/CHANGELOG.md
@@ -20,6 +20,19 @@
 
 ---
 
+## v3.11 — 26.11.2026
+Git: ветка v3.11/edits · Figma: «v3.11 · EN Desktop 1920», «v3.11 · EN Mobile 390», вкладка «🗂 v3.11 · 26.11.2026», правки — «✏ Правки v3.11 (закрыто)»
+Заметки Сергея в Figma 26.11 вечером + картинки в чате (notes/2026-11-26-v3.11-edits.md).
+- Hero UA собран как EN: те же отступы, «стабільно» и «clients» подгоняются точно по ширине контейнера на любом экране (на планшете EN больше не вылезает за край), «НОВІ КЛІЄНТИ» на мобиле и планшете в одну строку
+- Hero UA: надзаголовок без тавтологии — «Сайти, що працюють замість вас»
+- Hero: кнопка на планшете и мобиле больше не растягивается на всю ширину; страница всегда открывается с самого верха
+- Процесс: следующая карточка стартует, когда предыдущая прошла ~2/3; линия рисуется и текст печатается сразу и быстро
+- Цены: сумма не переносится; «трьома частинами» — «3 × ₴5 600» и строкой ниже «≈ $133 за платіж»; доллары ровно по левому краю текста карточки
+- Форма: без плейсхолдера телефона (страны добавим позже)
+- Футер: надпись MAVPY без маскота, во всю ширину
+- Кейсы: настоящие скрины Aurelia Dental, SRT, The Nook, Unit Surface (The Nook на десктопе заполняет рамку, обрезка справа)
+- Команда: фото Юлии, Марины, Никиты
+
 ## v3.10 — 26.11.2026
 Git: ветка v3.10/edits · Figma: «v3.10 · EN Desktop 1920», «v3.10 · EN Mobile 390», вкладка «🗂 v3.10 · 26.11.2026», правки — «✏ Правки v3.10 (закрыто)»
 Комментарии Сергея 26.11 (notes/2026-11-26-v3.10-edits.md).

diff --git a/notes/2026-11-26-v3.11-edits.md b/notes/2026-11-26-v3.11-edits.md
@@ -1,0 +1,19 @@
+# v3.11 — правки 26.11.2026 (вечер)
+
+Источник: текстовые заметки Сергея на странице Figma «✏ Правки и контент → v3.11» (+ 4 скрина-референса), картинки в чате.
+
+## Решения
+- Надзаголовок UA: «Сайти, що працюють замість вас» (без повтора «клієнтів» рядом с «НОВІ КЛІЄНТИ»).
+- Рассрочка UA: «3 × ₴5 600» и строкой ниже мелко «≈ $133 за платіж».
+- Фото Сергея — текущее.
+- The Nook — широкий скрин заполняет рамку на десктопе, обрезка справа; Aurelia показана целиком.
+
+## Что сделано
+| Блок | Правка |
+|---|---|
+| Hero | UA как EN: те же отступы; большое слово подгоняется по ширине контейнера скриптом (обе версии, любой экран); «НОВІ КЛІЄНТИ» в одну строку на ≤1199. Кнопка на ≤1199 не растягивается. Открытие страницы всегда с самого верха (load + pageshow). |
+| Процес | Шаг каждые 0,47 с; линия (1,1 с) и печать (11 мс/знак) стартуют через 0,18 с после появления карточки. |
+| Ціни | Сумма в одну строку; в режиме «3 частини» чуть меньше; строка «≈ $…» под суммой по левому краю. |
+| Форма | Плейсхолдер телефона пустой. |
+| Футер | Текстовый MAVPY (Montserrat 900) во всю ширину вместо картинки с маскотом. |
+| Кейси / Команда | Новые скрины и фото. |
